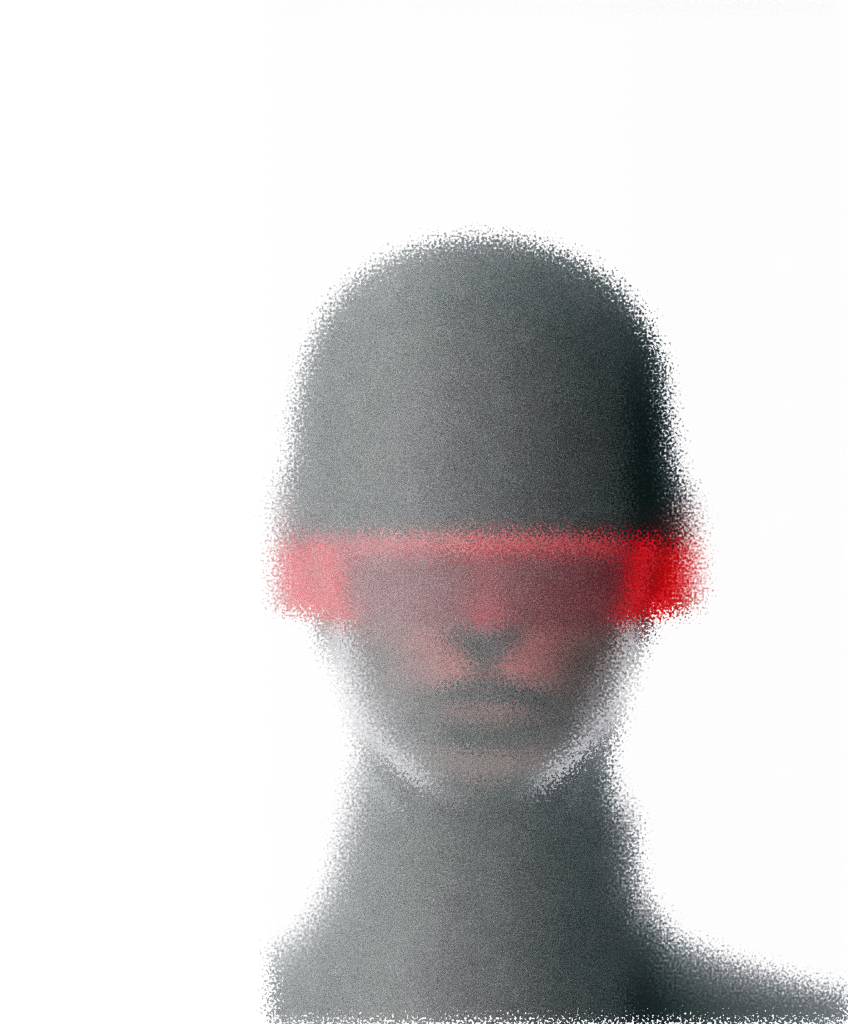
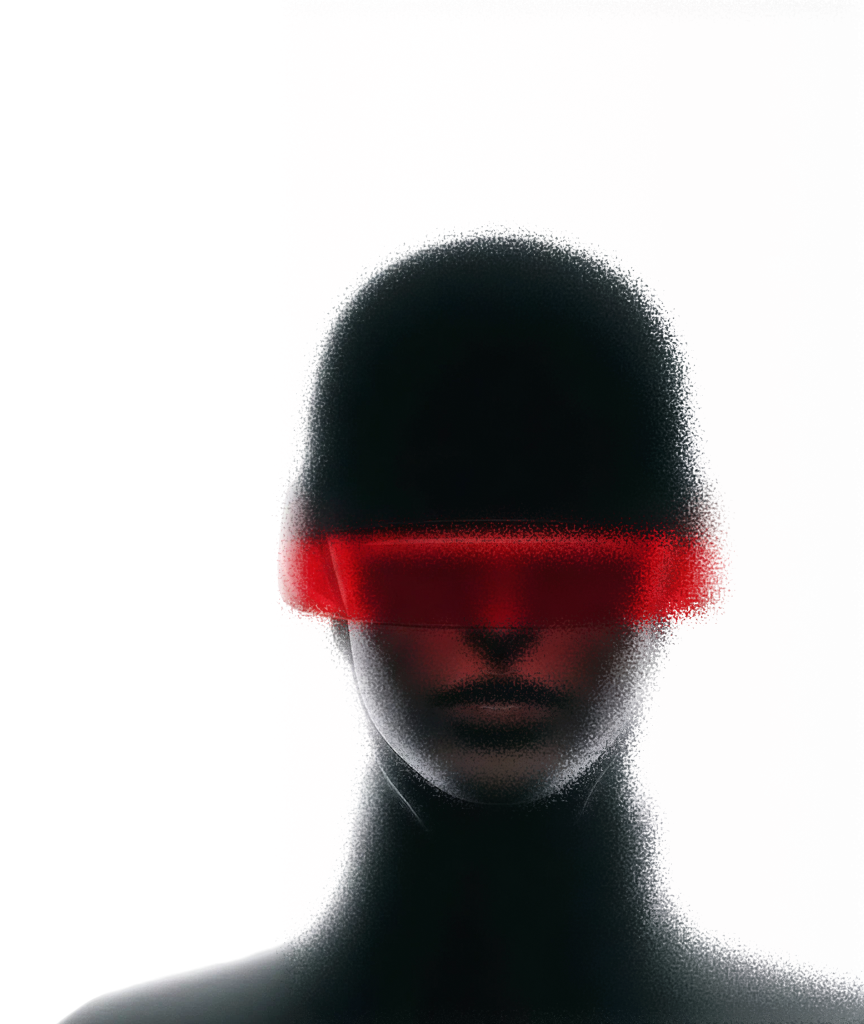
update herosection

diff --git a/src/pages/css/Landing.module.css b/src/pages/css/Landing.module.css
@@ -39,7 +39,7 @@
 }
 
 .navbar,
-.hero {
+/* .hero {
   position: relative;
   z-index: 2;
 }
@@ -119,20 +119,20 @@
   max-height: 100vh;
   object-fit: contain;
   display: block;
-}
+} */
 
 /* ===== LARGE TABLET / SMALL LAPTOP ===== */
-@media (max-width: 1200px) {
+/* @media (max-width: 1200px) {
   .hero {
     padding: 50px 40px;
   }
   .heroTitle {
     font-size: 40px;
   }
-}
+} */
 
 /* ===== TABLET ===== */
-@media (max-width: 1024px) {
+/* @media (max-width: 1024px) {
   .hero {
     padding: 50px 32px;
     gap: 24px;
@@ -149,10 +149,10 @@
   width:600px;
   top:40px;
  }
-}
+} */
 
 /* ===== SMALL TABLET / LARGE MOBILE ===== */
-@media (max-width: 860px) {
+/* @media (max-width: 860px) {
   .hero {
     flex-direction: column;
     align-items: flex-start;
@@ -180,10 +180,10 @@
     right:-140px;
     top:80px;
   }
-}
+} */
 
 /* ===== MOBILE ===== */
-@media (max-width: 560px) {
+/* @media (max-width: 560px) {
    .heroTitle {
     font-size: 30px;
   }
@@ -202,10 +202,10 @@
   .hero{
     padding:50px 10px;
   }
-}
+} */
 
 /* ===== SMALL MOBILE ===== */
-@media (max-width: 400px) {
+/* @media (max-width: 400px) {
     .imgland{
     width:400px;
     right:-115px;
@@ -216,8 +216,242 @@
         margin-top: 120px;
         max-width: 190px;
   }
+} */
+
+
+/* ====================================================
+   HERO SECTION (NEW EDITORIAL DESIGN)
+   ==================================================== */
+.heroNew {
+  position: relative;
+  width: 100%;
+  height: auto;
+  background-color: #ffffff;
+  overflow: hidden;
+  display: flex;
 }
 
+/* Vertical 3-Column Grid Lines */
+.heroLines {
+  position: absolute;
+  top: 0;
+  left: 0;
+  width: 100%;
+  height: 100%;
+  pointer-events: none;
+  z-index: 1;
+  display: flex;
+}
+
+.heroLineLeft {
+  position: absolute;
+  left: 33.33%;
+  top: 0;
+  width: 1px;
+  height: 100%;
+  /* This exactly replicates the line turning RED under the title */
+  background: linear-gradient(to bottom, #eaeaea 58%, #e8261c 58%);
+}
+
+.heroLineRight {
+  position: absolute;
+  left: 66.66%;
+  top: 0;
+  width: 1px;
+  height: 100%;
+  background-color: #eaeaea;
+}
+
+/* Floating Gray Labels */
+.heroLabelsContainer {
+  position: absolute;
+  top: 0;
+  left: 0;
+  width: 100%;
+  height: 100%;
+  pointer-events: none;
+  z-index: 2;
+}
+
+.heroLabel {
+  position: absolute;
+  font-size: 14px;
+  color: #888888;
+  line-height: 1.5;
+  font-weight: 400;
+}
+
+/* Positioning based on the 3 columns */
+.labelTop1 { top: 25%; left: 5%; }
+.labelTop2 { top: 25%; left: 38%; }
+.labelTop3 { top: 25%; left: 71%; }
+
+.labelBottom1 { bottom: 6%; left: 5%; }
+.labelBottom2 { bottom: 6%; left: 38%; }
+.labelBottom3 { 
+  bottom: 6%; 
+  left: 71%; 
+  color: #ffffff; /* White text because it sits over the dark image */
+  z-index: 10; 
+} 
+
+/* Main Typographic Title */
+.heroTitleContainer {
+  position: absolute;
+  top: 65%;
+  left: 5%;
+  transform: translateY(-50%);
+  z-index: 10;
+  pointer-events: auto;
+}
+
+.heroTitle {
+  font-size: clamp(40px, 5vw, 68px);
+  font-weight: 300;
+  color: #555555;
+  line-height: 1.15;
+  letter-spacing: -1.5px;
+}
+
+.heroTitle .red {
+  color: #e8261c;
+  font-weight: 400;
+}
+
+/* Button Hidden on Desktop to match UI, Visible on Mobile */
+.heroCtaBtn {
+  background-color: #e8261c;
+  color: #ffffff;
+  border: none;
+  padding: 14px 28px;
+  border-radius: 8px;
+  font-size: 16px;
+  letter-spacing: 0.5px;
+  font-weight: 500;
+  cursor: pointer;
+  margin-top: 30px;
+  transition: background-color 0.2s ease;
+  display: none; 
+}
+
+.heroCtaBtn:hover {
+  background-color: #c91e15;
+}
+
+/* Giant Right-Aligned Image */
+.heroImageContainer {
+  position: absolute;
+  bottom: 0;
+  right: 0;
+  width: 50%;
+  height: auto;
+  z-index: 0; 
+  display: flex;
+  justify-content: flex-end;
+  align-items: flex-end;
+  pointer-events: none;
+}
+
+.heroImg {
+  width: 100%;
+  height: 100%;
+  object-fit: cover;
+  object-position: left top; 
+  /* Fades the hard left edge of the image smoothly into the white background */
+  -webkit-mask-image: linear-gradient(to right, transparent, black 15%);
+  mask-image: linear-gradient(to right, transparent, black 15%);
+}
+
+/* ====================================================
+   HERO: MOBILE RESPONSIVE
+   ==================================================== */
+@media (max-width: 1024px) {
+  .labelTop1 { left: 4%; }
+  .labelTop2 { left: 36%; }
+  .labelTop3 { left: 69%; }
+  .labelBottom1 { left: 4%; }
+  .labelBottom2 { left: 36%; }
+  .labelBottom3 { left: 69%; }
+  .heroTitle { font-size: 48px; }
+  .heroImageContainer { width: 65%; }
+}
+
+@media (max-width: 768px) {
+  .heroNew {
+    height: auto;
+    min-height: 100vh;
+    display: flex;
+    flex-direction: column;
+    justify-content: flex-start;
+    padding-top: 60px;
+  }
+
+  .heroLines {
+    display: none; /* Hide vertical grid lines on mobile */
+  }
+
+  .heroTitleContainer {
+    position: relative;
+    top: 0;
+    left: 0;
+    transform: none;
+    padding: 0 24px;
+    margin-bottom: 40px;
+    z-index: 10;
+  }
+
+  .heroTitle {
+    font-size: 42px;
+    letter-spacing: -0.5px;
+  }
+
+  .heroCtaBtn {
+    display: inline-block; /* Show CTA on mobile for usability */
+  }
+
+  /* Reformat Floating Labels into a clean Mobile Grid */
+  .heroLabelsContainer {
+    position: relative;
+    display: grid;
+    grid-template-columns: 1fr 1fr;
+    gap: 20px;
+    padding: 0 24px;
+    width: 100%;
+    height: auto;
+    margin-bottom: 40px;
+    z-index: 10;
+  }
+
+  .heroLabel {
+    position: relative;
+    top: auto !important;
+    left: auto !important;
+    bottom: auto !important;
+    font-size: 13px;
+    color: #777777 !important; /* Revert white text */
+  }
+
+  .heroImageContainer {
+    position: relative;
+    width: 100%;
+    height: 50vh;
+    margin-top: auto;
+    justify-content: center;
+    -webkit-mask-image: none;
+    mask-image: none;
+  }
+
+  .heroImg {
+    object-fit: contain;
+    object-position: bottom;
+  }
+}
+
+@media (max-width: 480px) {
+  .heroTitle { font-size: 36px; }
+  .heroLabelsContainer { grid-template-columns: 1fr; gap: 12px; }
+  .heroImageContainer { height: 40vh; }
+}
 
 /* ===== NAVBAR ===== */
 .navbar {

diff --git a/src/pages/Landing.jsx b/src/pages/Landing.jsx
@@ -9,6 +9,7 @@ import FaqSection from '../component/FaqSection'
 
 
 // 1. IMPORT THE IMAGE HERE
+import hero from '../assets/hero-section.png'
 import benefitsDashboard from '../assets/benefits-dashboard.png'
 import workflowBg from '../assets/workflow-bg.png'; // <--- ADD THIS
 import collage1 from '../assets/collageBox-1.png';
@@ -298,27 +299,44 @@ useLayoutEffect(() => {
     </Helmet>
     {/* <div ref={introRef} className={styles.introScene}> */}
     <div className={styles.landing}>
-  <section className={styles.hero}>
-    <div className={styles.heroText}>
-      <h1 className={styles.heroTitle}>
-        Designed for <span className={styles.red}>Trust</span><br />
-        Engineered for the <span className={styles.red}>World.</span>
-      </h1>
+      <section className={styles.heroNew}>
+          {/* Background Grid Lines */}
+          <div className={styles.heroLines}>
+            <div className={styles.heroLineLeft}></div>
+            <div className={styles.heroLineRight}></div>
+          </div>
 
-      <button className={styles.ctaBtn} onClick={()=>{navigate("/Login")}}>Start Signing for Free</button>
+          {/* Floating Labels */}
+          <div className={styles.heroLabelsContainer}>
+            <div className={`${styles.heroLabel} ${styles.labelTop1}`}>Military-grade<br/>AES-256 encryption</div>
+            <div className={`${styles.heroLabel} ${styles.labelTop2}`}>Multi-signer capabilities</div>
+            <div className={`${styles.heroLabel} ${styles.labelTop3}`}>Secure<br/>collaboration</div>
+            
+            <div className={`${styles.heroLabel} ${styles.labelBottom1}`}>Data security</div>
+            <div className={`${styles.heroLabel} ${styles.labelBottom2}`}>Digital transformation</div>
+            <div className={`${styles.heroLabel} ${styles.labelBottom3}`}>Lightning-fast<br/>workflow</div>
+          </div>
 
-      <p className={styles.heroSubtext}>
-        Replace manual paperwork with borderless, lightning-fast workflows. Nexgn delivers
-        military-grade AES-256 encryption and multi-signer capabilities on a highly scalable
-        freemium infrastructure.
-      </p>
+          {/* Main Title */}
+          <div className={styles.heroTitleContainer}>
+            <h1 className={styles.heroTitle}>
+              Built on <span className={styles.red}>Trust</span>,<br />
+              Engineered for <span className={styles.red}>Tomorrow.</span>
+            </h1>
+            
+            {/* Kept CTA for mobile usability, hidden on desktop to match your visual */}
+            <button className={styles.heroCtaBtn} onClick={()=>{navigate("/Login")}}>
+              Start Signing for Free
+            </button>
+          </div>
+
+          {/* Hero Image (Red Visor Silhouette) */}
+          <div className={styles.heroImageContainer}>
+            {/* Ensure you have this image in your assets or public folder */}
+            <img src={hero} alt="Nexgn Interface" className={styles.heroImg} />
+          </div>
+      </section>
     </div>
-
-    <div className={styles.imgland}>
-      <img src="./download 3.png" alt="Nexgn" />
-    </div>
-  </section>
-</div>
 
     <section ref={aboutRef} className={styles.about}>
         <span ref={aboutTextRef}>Nexgn is a secure, India-first digital signature platform built to simplify and scale modern document workflows.</span>
@@ -381,6 +399,7 @@ useLayoutEffect(() => {
     <h2 className={styles.benefitsTitle}>KEY BENEFITS</h2>
     <p className={styles.benefitsSubtitle}>Unlock speed, security, and simplicity</p>
   </div>
+
   <div className={styles.benefitsContent}>
     <div className={styles.imageCard}>
       <img
